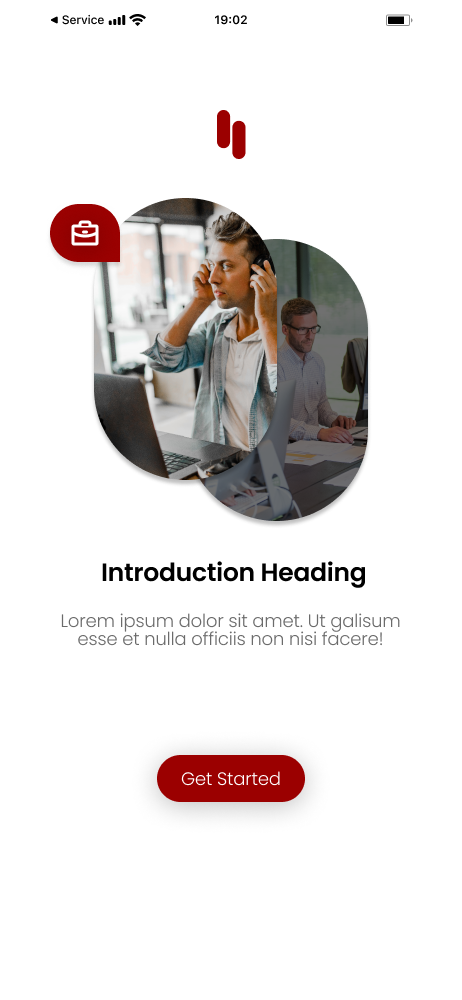
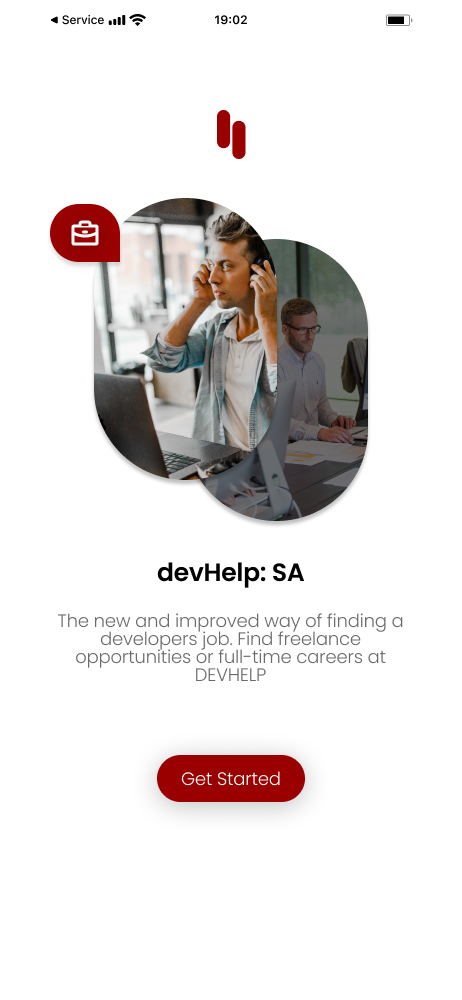
Landing Page Update
Contact Section- Form is completed, data gets recorded onto firebase
UI Design is images are updated with the the proper designs
All other small details are fixed.

Changed region(s): [[0.1515, 0.558, 0.8788, 0.682]]

diff --git a/Dev!/index.html b/Dev!/index.html
@@ -54,7 +54,7 @@
             <div class="container d-flex align-items-center" style="padding-top: 150px;">
                 <div class="container h-100 d-flex align-items-center justify-content-center">
                     <div class="text-center">
-                        <h2 class="text-capitalize fw-bold heading" data-aos="zoom-out-down" data-aos-duration="1500">devHelp</h2>
+                        <h2 class="text-capitalize fw-bold heading" data-aos="zoom-out-down" data-aos-duration="1500">devHelp:SA</h2>
                         <h1 class="text-uppercase py-2  text-white" data-aos="zoom-out-down" data-aos-duration="1500">Explore developers career jobs at just <br> a tip of the finger</h1>
                         <br>
                         <div class="" data-aos="fade-right" data-aos-duration="1500">
@@ -121,10 +121,10 @@
                 </div>
                 <div class="col-lg-6 col-md-7 mt-5">
                     <div class="about-title">
-                        <h2>dev<span>Help</span></h2>
+                        <h2>dev<span>Help: SA</span></h2>
                     </div>
                     <div class="about-details">
-                        <p>devHelp is a mobile application that is built to help developers find the job position that is suitable for them. Using this application, employers and employees can benefit equally in a way that suits both sides.</p>
+                        <p>devHelp is a mobile application that is built to help developers find the job position that is suitable for them. A lot of companies are seeking local developers to satisfy the high demand rate in South Africa. Using this application, employers and employees can benefit equally in a way that suits both sides.</p>
                         <div class="row">
                            <div class="col-sm-6" data-aos="fade-left" data-aos-easing="linear" data-aos-duration="1500">
                                <div class="about-detail-info style-1 ">
@@ -172,16 +172,22 @@
                 <div class="row">
                     <div class="owl-carousel ui-display-car owl-theme">
                         <div class="ui-item">
-                            <img src="/images/Login.png" alt="screenshot-1">
+                            <img src="/images/Login-1.png" alt="screenshot-1">
                         </div>
                         <div class="ui-item">
-                            <img src="/images/Login-1.png" alt="screenshot-1">
+                            <img src="/images/Login.png" alt="screenshot-1">
                         </div>
                         <div class="ui-item">
                             <img src="/images/Sign-up.png" alt="screenshot-1">
                         </div>
                         <div class="ui-item">
-                            <img src="/images/Login-1.png" alt="screenshot-1">
+                            <img src="/images/Home.png" alt="screenshot-1">
+                        </div>
+                        <div class="ui-item">
+                            <img src="/images/Job Description.png" alt="screenshot-1">
+                        </div>
+                        <div class="ui-item">
+                            <img src="/images/User Information.png" alt="screenshot-1">
                         </div>
                     </div>
                 </div>
@@ -264,16 +270,6 @@
                             <div class="accordion-body">devHelp is an app where developers could seek jobs based on their skills and experince. Companies may also post job opportunity if they are looking for new candidates to fill some empty spots in their company</div>
                           </div>
                         </div>
-                        <div class="accordion-item">
-                          <h2 class="accordion-header" id="flush-headingThree">
-                            <button class="accordion-button collapsed" type="button" data-bs-toggle="collapse" data-bs-target="#flush-collapseThree" aria-expanded="false" aria-controls="flush-collapseThree">
-                              Question #3
-                            </button>
-                          </h2>
-                          <div id="flush-collapseThree" class="accordion-collapse collapse" aria-labelledby="flush-headingThree" data-bs-parent="#accordionFlushExample">
-                            <div class="accordion-body">Placeholder content for this accordion, which is intended to demonstrate the <code>.accordion-flush</code> class. This is the third item's accordion body. Nothing more exciting happening here in terms of content, but just filling up the space to make it look, at least at first glance, a bit more representative of how this would look in a real-world application.</div>
-                          </div>
-                        </div>
                       </div>
                 </div>
 
@@ -317,18 +313,18 @@
                 </div>
                 <div class="col-lg-8 col-md-7">
                     <div class="contact-form">
-                        <form class="row g-3">
+                        <form class="row g-3" method="post">
                             <div class="col-md-6">
-                              <input type="email" class="form-control" placeholder="Name" required>
+                              <input type="text" class="form-control name" placeholder="Name" required>
                             </div>
                             <div class="col-md-6">
-                              <input type="email" class="form-control" placeholder="Email" required>
+                              <input type="email" class="form-control email" placeholder="Email" required>
                             </div>
                             <div class="col-12">
-                              <input type="text" class="form-control" placeholder="Subject">
+                              <input type="text" class="form-control subject" placeholder="Subject">
                             </div>
                             <div class="col-12">
-                                <textarea class="form-control"  placeholder="Required textarea"  style="resize: none;"  rows="6" cols="50" required></textarea>
+                                <textarea class="form-control message"  placeholder="Required textarea"  style="resize: none;"  rows="6" cols="50" required></textarea>
                             </div>
                             <div class="col-12">
                               <button type="submit" class="btn btn-send"><i class="bi bi-send-fill"></i> Send Message</button>
@@ -342,22 +338,33 @@
     </div>
     <!-- End of teh contact section -->
 
+<!-- 
+    <script defer src="/__/firebase/8.7.0/firebase-app.js"></script> -->
+        <!-- include only the Firebase features as you need -->
 
+        <!-- <script src="https://www.gstatic.com/firebasejs/8.7.1/firebase-app-check.js"></script> -->
+      
+
+        <!-- This links is used for my firbease database -->
+        <script src="https://www.gstatic.com/firebasejs/8.7.0/firebase.js"></script>
 
     <!-- bootstrap -->
-    <script src="https://cdn.jsdelivr.net/npm/bootstrap@5.1.3/dist/js/bootstrap.bundle.min.js"></script>
+        <script src="https://cdn.jsdelivr.net/npm/bootstrap@5.1.3/dist/js/bootstrap.bundle.min.js"></script>
     
     <!-- Owl Carousel -->
     <script src="https://cdnjs.cloudflare.com/ajax/libs/jquery/3.6.0/jquery.min.js"></script>
     <script src="https://cdnjs.cloudflare.com/ajax/libs/OwlCarousel2/2.3.4/owl.carousel.min.js"></script>
     
-    <script src="main.js"></script>
+    
     <script src="/aos/aos.js"></script>
-     <link href="https://unpkg.com/aos@2.3.1/dist/aos.css" rel="stylesheet">
+     <!-- <link href="https://unpkg.com/aos@2.3.1/dist/aos.css" rel="stylesheet"> -->
      <script type="text/javascript">jQuery(document).ready(function($){$(function() {      AOS.init(); });  });  </script>
+    <script src="main.js"></script>
     
   </body>
 
+
+  <!-- Footer -->
   <footer class="footer bg-dark">
       <div class="container-fluid p-1">
         <section class="mb-1 justify-content-center" style="text-align: center; color: white;">
@@ -382,4 +389,5 @@
           © 2022 Copyright: devHelp
       </div>
   </footer>
+  <!--  -->
 </html>

diff --git a/Dev!/main.js b/Dev!/main.js
@@ -1,3 +1,51 @@
+var firebaseConfig = {
+    apiKey: "AIzaSyCPWcauJpBREVKVRn3BmQbNaDaCp0J_eao",
+    authDomain: "portfolio-contactform-fb210.firebaseapp.com",
+    projectId: "portfolio-contactform-fb210",
+    storageBucket: "portfolio-contactform-fb210.appspot.com",
+    messagingSenderId: "998740486486",
+    appId: "1:998740486486:web:d68cba2791851afc338ef7"
+  };
+
+  firebase.initializeApp(firebaseConfig);
+  firebase.analytics();
+
+//   Referencing my collection
+  let Information = firebase.database().ref("devHelp-New Email");
+
+
+
+  document.querySelector(".contact-form").addEventListener("submit", submitForm);
+  
+
+  function submitForm(e) {
+      e.preventDefault();
+      
+      let name = document.querySelector(".name").value;
+      let email = document.querySelector(".email").value;
+      let subject = document.querySelector(".subject").value;
+      let message = document.querySelector(".message").value;
+
+      saveInfomation(name, email, subject, message);
+      
+  }
+
+  //Saving the information 
+  function saveInfomation(name, email, subject, message){
+      let Info = Information.push();
+
+      Info.set({
+          Name: name,
+          email: email,
+          subject: subject,
+          message: message,
+
+      });
+
+      window.alert("We got your mail, we'll get back to you")
+      
+  }
+
 
 $('.features-car').owlCarousel({
     loop:true,
@@ -33,3 +81,9 @@ $('.ui-display-car').owlCarousel({
         }
     }
 })
+
+// Contact Form
+    var contactInfo = firebase('firebase/app');
+    var contactInfo = firebase.database().ref("infos");
+
+// -----------------------------------------------------------------------------
